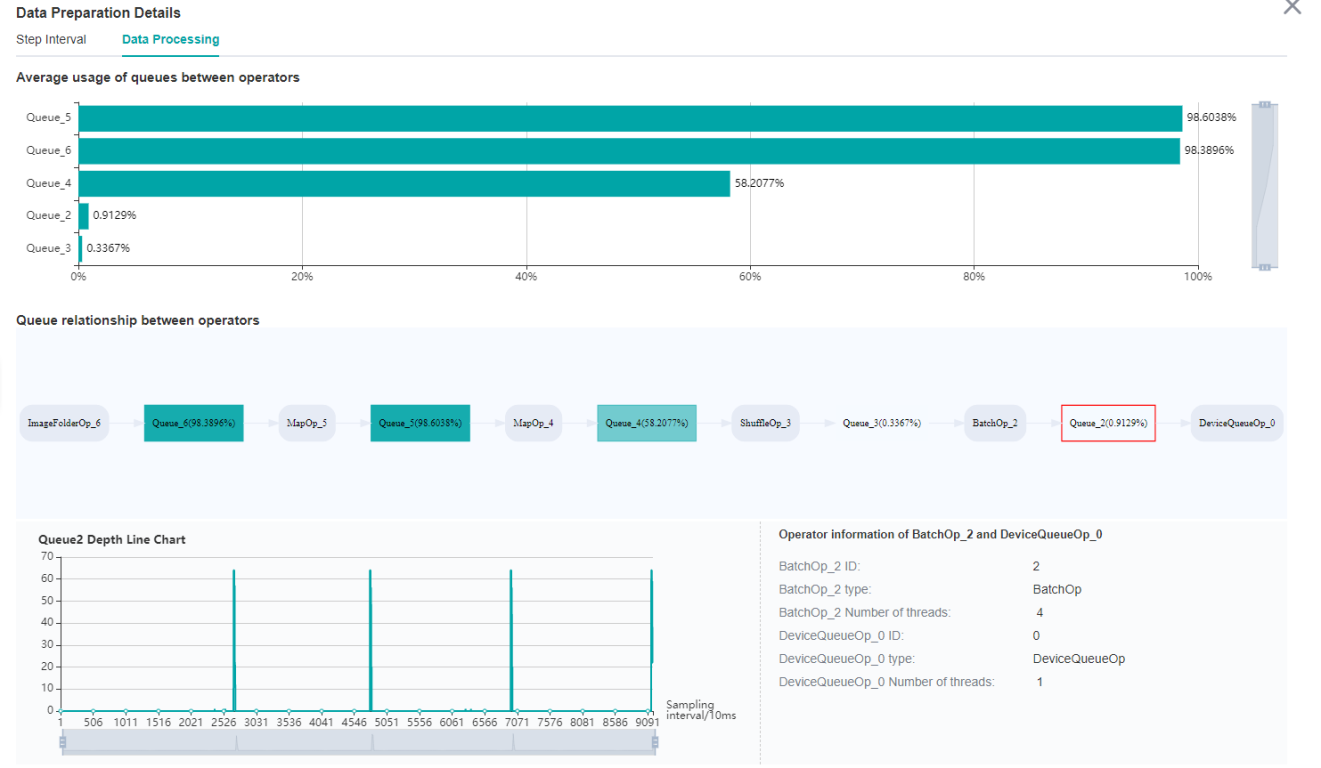
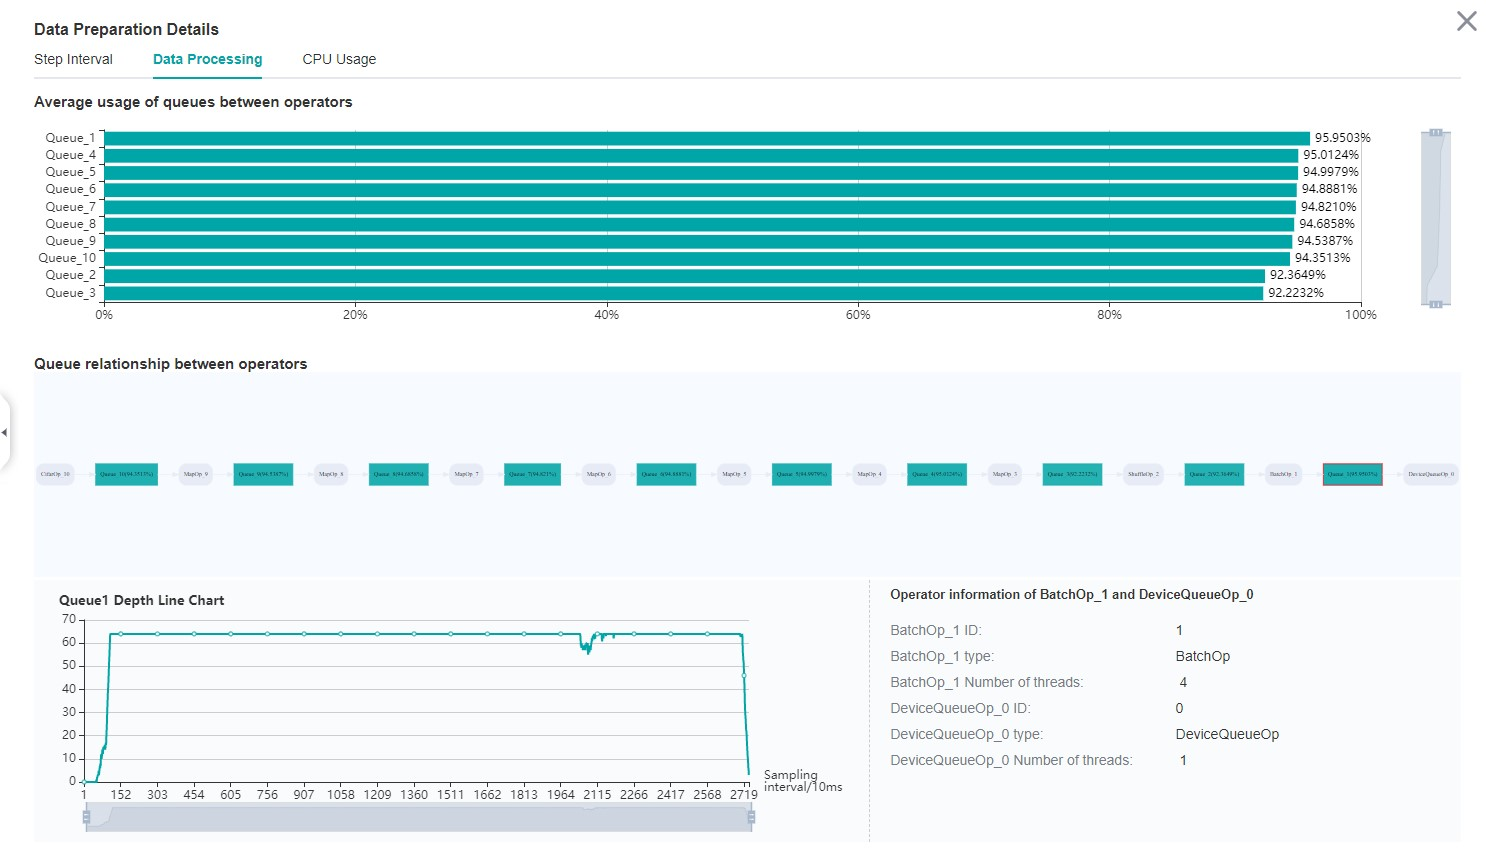
doc for cpu utilization

diff --git a/tutorials/training/source_en/advanced_use/performance_profiling.md b/tutorials/training/source_en/advanced_use/performance_profiling.md
@@ -130,7 +130,7 @@ the data process pipeline, data transfer from host to device and data fetch on d
 
 Figure 5: MindData Performance Analysis
 
-Figure 5 displays the page of MindData performance analysis component. It consists of two tabs: The step gap and the data process.
+Figure 5 displays the page of MindData performance analysis component. It consists of three tabs: The step gap, the data process, and the CPU utilization.
 
 The step gap page is used to analyse whether there is performance bottleneck in the three stages. We can get our conclusion from the data queue graphs:  
 
@@ -155,6 +155,32 @@ To optimize the perforamnce of MindData operators, there are some suggestions:
 - If a MapOp type operator is the bottleneck, try to increase the `num_parallel_workers`. If it is a python operator, try to optimize the training script.
 - If a BatchOp type operator is the bottleneck, try to adjust the size of `prefetch_size`.
 
+CPU utilization, which is mainly used to assist performance debugging. After the performance bottleneck is determined according to the queue size, the performance can be debugged according to the CPU utilization (if the user utilization is too low, increase the number of threads; if the system utilization is too high, decrease the number of threads).
+CPU utilization includes CPU utilization of the whole machine, process and Data pipeline operator.
+
+![device_utilization.png](./images/device_cpu_utilization.png)
+
+Figure 7: CPU utilization of the whole machine
+
+CPU utilization of the whole machine: Show the overall CPU usage of the device in the training process, including user utilization, system utilization, idle utilization, IO utilization, current number of active processes, and context switching times. If the user utilization is low, you can try to increase the number of operator threads to increase the CPU utilization; if the system utilization is high, and the number of context switching and CPU waiting for processing is large, it indicates that the number of threads needs to be reduced accordingly.
+
+![process_cpu_utilization.png](./images/process_cpu_utilizaton.png)
+
+Figure 8: Process utilization
+
+Process utilization: Show the CPU usage of a single process. The combination of whole machine utilization and process utilization can determine whether other processes affect the training process.
+
+![data_op_utilization.png](./images/data_op_utilization.png)
+
+Figure 9: Operator utilization
+
+Operator utilization: Show the CPU utilization of Data pipeline single operator. We can adjust the number of threads of the corresponding operator according to the actual situation. If the number of threads is small and takes up a lot of CPU, you can consider whether you need to optimize the code.
+
+Common scenarios of CPU utilization:
+
+- According to the queue size, the network debugging personnel can judge that the performance of MindData has a bottleneck. They can adjust the number of threads by combining the utilization rate of the whole machine and the utilization rate of the operator.
+- Developers can check the utilization of operators. If an operator consumes CPU utilization, they can confirm whether the code needs to be optimized.
+
 #### Timeline Analysis
 
 The Timeline component can display:
@@ -175,7 +201,7 @@ Users can click the download button on the overall performance page to view Time
 
 ![timeline.png](./images/timeline.png)
 
-Figure 7: Timeline Analysis
+Figure 10: Timeline Analysis
 
 The Timeline consists of the following parts:  
 

diff --git a/tutorials/training/source_zh_cn/advanced_use/performance_profiling.md b/tutorials/training/source_zh_cn/advanced_use/performance_profiling.md
@@ -129,11 +129,11 @@ profiler.analyse()
 
 使用MindData性能分析组件可以对训练数据准备过程进行性能分析。数据准备过程可以分为三个阶段：数据处理pipeline、数据发送至Device以及Device侧读取训练数据，MindData性能分析组件会对每个阶段的处理性能进行详细分析，并将分析结果进行展示。
 
-![minddata_profile.png](./images/minddata_profile.png)
+![minddata_profile.png](images/data_profile.png)
 
 图5：MindData性能分析
 
-图5展示了MindData性能分析页面，包含迭代间隙和数据处理两个TAB页面。
+图5展示了MindData性能分析页面，包含迭代间隙、数据处理、CPU利用率三个TAB页面。
 
 迭代间隙TAB页主要用来分析数据准备三个阶段是否存在性能瓶颈，数据队列图是分析判断的重要依据：  
 
@@ -160,6 +160,32 @@ profiler.analyse()
 - 如果MapOp类型的算子是性能瓶颈，建议增加`num_parallel_workers`，如果该算子为Python算子，可以尝试优化脚本。
 - 如果BatchOp类型的算子是性能瓶颈，建议调整`prefetch_size`的大小。
 
+CPU利用率分析，主要起到辅助性能调试的作用。根据Queue size确定了性能瓶颈后，可以根据CPU利用率辅助对性能进行调试（用户利用率过低，增加线程数；系统利用率过大，减小线程数）。
+CPU利用率包含整机CPU利用率、进程CPU利用率、Data pipeline算子CPU利用率。
+
+![device_cpu_utilization.png](./images/device_cpu_utilization.png)
+
+图7: 整机CPU利用率
+
+整机CPU利用率：展示设备在训练过程中整体的CPU使用情况，包含用户利用率、系统利用率空闲利用率、IO利用率、当前活跃进程数、上下文切换次数。如果用户利用率较低，可以尝试增大算子线程数，增加CPU使用情况；如果系统利用率较大，同时上下文切换次数、CPU等待处理的进程较大，说明需要相应减少线程个数。
+
+![process_cpu_utilization.png](./images/process_cpu_utilizaton.png)
+
+图8: 进程利用率
+
+进程利用率：展示单个进程的CPU占用情况。整机利用率和进程利用率结合，可以确定训练过程中是否有其他进程影响训练。
+
+![data_op_cpu_utilization.png](./images/data_op_utilization.png)
+
+图9: 算子利用率
+
+算子利用率：展示Data pipeline单个算子占用的CPU利用率。可以根据实际情况，调整对应算子的线程数。如果线程数不大，占用CPU较多，可以考虑优化代码。
+
+CPU利用率常用场景:
+
+- 网络调试人员根据Queue size判断是Data性能有瓶颈，可以结合整机利用率和算子利用率作为辅助尝试调整线程数。
+- 开发人员可以查看算子利用率，如果某一个算子比较耗CPU利用率，可以考虑优化该算子。
+
 #### Timeline分析
 
 Timeline组件可以展示：  
@@ -177,7 +203,7 @@ Timeline组件可以展示：
 
 ![timeline.png](./images/timeline.png)
 
-图7：Timeline分析
+图10：Timeline分析
 
 Timeline主要包含如下几个部分：  
 
